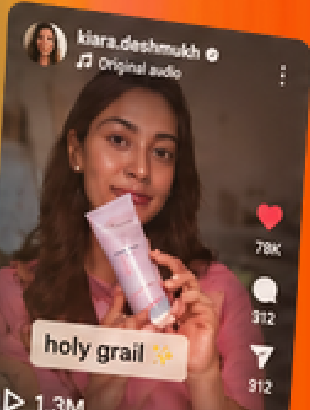
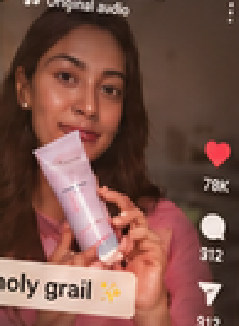
Clean up card art, make waves irregular, fix card cluster overlap
Card images: the source crops (from the LinkedIn banner) each carried
rotation-crop bleed - slivers of background gradient or neighboring cards
visible at the edges. Re-cropped all four tighter (one via de-rotation +
inscribed-rectangle crop, the other three via inset trimming) so every
card is clean, no stray artifacts, matching the reference's polish.

Wave shape: replaced the single-sine-per-layer path with a sum of four
harmonics (same fundamental wavelength, so it still tiles seamlessly) per
layer, each layer seeded differently. Peaks now vary in height and spacing
instead of reading as one mechanical repeat, matching the uneven silhouette
in the reference rather than a clean uniform sine.

Card cluster: tightened the four cards into a closer, more deliberately
aligned row instead of a wide scatter - but that first pass put the left
card and its annotation back inside the copy column, reproducing the
overlap bug from two rounds ago. Fixed by moving the card past the ~53%
copy boundary and reworking its annotation to drop below-right instead of
above-left (added a `vertical` option to the annotation component so labels
aren't locked to sitting above their card).

Claude-Session: https://claude.ai/code/session_018LqBfwsZjUouYefP72CLji

diff --git a/src/components/hero/waveLayers.js b/src/components/hero/waveLayers.js
@@ -1,12 +1,24 @@
-// Builds a seamlessly-tileable repeating sine-wave silhouette as an SVG path.
-// The path covers exactly TWO wavelengths; the layer is then rendered at
-// 200% width and looped by translating -50% of its own box, which lands
-// on an identical frame every cycle (no visible jump).
-function buildTilePath({ wavelength, amplitude, baseline, bandHeight, step = 12 }) {
+// Builds a seamlessly-tileable, deliberately UNEVEN wave silhouette as an
+// SVG path: a few harmonics of the tile's fundamental wavelength summed
+// together (each an integer multiple, so the whole thing still tiles
+// perfectly) so peaks vary in height and spacing instead of reading as one
+// mechanical repeating sine. The layer is rendered at 200% width and
+// looped by translating -50% of its own box, landing on an identical
+// frame every cycle - no visible jump despite the irregular silhouette.
+function buildTilePath({ wavelength, amplitude, baseline, bandHeight, seed = 0, step = 10 }) {
   const width = wavelength * 2
+  const harmonics = [
+    { k: 1, a: 1, phase: seed },
+    { k: 2, a: 0.42, phase: seed * 1.7 + 1.1 },
+    { k: 3, a: 0.22, phase: seed * 0.6 + 2.4 },
+    { k: 5, a: 0.12, phase: seed * 2.3 + 0.5 },
+  ]
   const points = []
   for (let x = 0; x <= width; x += step) {
-    const y = baseline + Math.sin((x / wavelength) * Math.PI * 2) * amplitude
+    let y = baseline
+    for (const h of harmonics) {
+      y += Math.sin((x / wavelength) * Math.PI * 2 * h.k + h.phase) * amplitude * h.a
+    }
     points.push(`${x},${y.toFixed(1)}`)
   }
   return `M ${points.join(' L ')} L ${width},${bandHeight} L 0,${bandHeight} Z`
@@ -19,49 +31,53 @@ const LAYER_DEFS = [
   {
     id: 'l1',
     color: 'var(--color-wave-peach-light)',
-    wavelength: 460,
-    amplitude: 16,
+    wavelength: 540,
+    amplitude: 20,
     baseline: 70,
-    duration: 32,
+    duration: 34,
     bobDuration: 9,
     bobAmount: 4,
     parallax: 6,
+    seed: 0.4,
     opacity: 1,
   },
   {
     id: 'l2',
     color: 'var(--color-wave-peach)',
-    wavelength: 380,
-    amplitude: 24,
-    baseline: 140,
-    duration: 24,
+    wavelength: 440,
+    amplitude: 29,
+    baseline: 145,
+    duration: 25,
     bobDuration: 7.5,
     bobAmount: 5,
     parallax: 9,
+    seed: 2.1,
     opacity: 1,
   },
   {
     id: 'l3',
     color: 'var(--color-wave-orange)',
-    wavelength: 320,
-    amplitude: 30,
-    baseline: 215,
-    duration: 18,
+    wavelength: 370,
+    amplitude: 36,
+    baseline: 220,
+    duration: 19,
     bobDuration: 6.5,
     bobAmount: 6,
     parallax: 13,
+    seed: 3.6,
     opacity: 1,
   },
   {
     id: 'l4',
     color: 'var(--color-wave-orange-deep)',
-    wavelength: 270,
-    amplitude: 38,
-    baseline: 300,
-    duration: 13,
+    wavelength: 310,
+    amplitude: 44,
+    baseline: 305,
+    duration: 14,
     bobDuration: 5.5,
     bobAmount: 7,
     parallax: 18,
+    seed: 5.2,
     opacity: 1,
   },
 ]
@@ -77,6 +93,7 @@ export function getWaveLayers({ mobile = false } = {}) {
       amplitude: layer.amplitude * ampScale,
       baseline: layer.baseline,
       bandHeight: BAND_HEIGHT,
+      seed: layer.seed,
     }),
     viewBoxWidth: layer.wavelength * 2,
     viewBoxHeight: BAND_HEIGHT,

diff --git a/src/components/hero/waveCardsData.js b/src/components/hero/waveCardsData.js
@@ -3,48 +3,32 @@ import card3 from '../../assets/cards/card3_saanvi.png'
 import card4 from '../../assets/cards/card4_tanvi.png'
 import card5 from '../../assets/cards/card5_kiara.png'
 
-// Right-hand cluster, occupying roughly the right half of the hero.
-// depth: 'back' cards render behind the front wave layers; everything
-// else (including the hero card) renders in front of all wave layers -
-// that's the "wave passes behind some cards, in front of others" effect.
+// Right-hand cluster, roughly aligned in one row like the reference (small
+// left, large hero center, small right) - kept well clear of the ~53%-wide
+// copy column so nothing (cards or their annotations) ever crosses it.
 export const WAVE_CARDS = [
   {
     img: card1,
     alt: 'UGC creator - "best thing I\'ve bought this year"',
-    left: 64,
-    top: 71,
+    left: 55,
+    top: 47,
     rotate: -6,
-    scale: 0.58,
-    blur: 0.5,
-    opacity: 0.82,
-    depth: 'back',
-    z: 14,
-    bob: 5.2,
-    annotation: { text: 'Authentic content', side: 'left' },
-  },
-  {
-    img: card4,
-    alt: 'UGC creator - "this is your sign"',
-    left: 60,
-    top: 50,
-    rotate: -10,
-    scale: 0.78,
+    scale: 0.68,
     blur: 0,
-    opacity: 0.96,
-    depth: 'front',
-    z: 26,
-    bob: 4.4,
+    opacity: 0.92,
+    z: 22,
+    bob: 5.2,
+    annotation: { text: 'Authentic content', side: 'right', vertical: 'below' },
   },
   {
     img: card3,
     alt: 'UGC creator - "finally found a matcha that hits", the winning hook',
-    left: 68,
-    top: 30,
+    left: 72,
+    top: 28,
     rotate: -5,
     scale: 1.15,
     blur: 0,
     opacity: 1,
-    depth: 'front',
     z: 40,
     bob: 5,
     hero: true,
@@ -54,12 +38,11 @@ export const WAVE_CARDS = [
     img: card5,
     alt: 'UGC creator - "holy grail" skincare',
     left: 90,
-    top: 20,
+    top: 22,
     rotate: 4,
-    scale: 0.56,
+    scale: 0.58,
     blur: 0,
-    opacity: 0.88,
-    depth: 'front',
+    opacity: 0.9,
     z: 24,
     bob: 6,
     annotation: { text: 'Actual results', side: 'right' },
@@ -78,7 +61,6 @@ export const WAVE_CARDS_MOBILE = [
     scale: 0.6,
     blur: 0,
     opacity: 0.95,
-    depth: 'front',
     z: 24,
     bob: 4.5,
   },
@@ -91,7 +73,6 @@ export const WAVE_CARDS_MOBILE = [
     scale: 0.68,
     blur: 0,
     opacity: 1,
-    depth: 'front',
     z: 26,
     bob: 5,
   },

diff --git a/src/components/hero/WaveCards.jsx b/src/components/hero/WaveCards.jsx
@@ -3,16 +3,12 @@ import gsap from 'gsap'
 import { useReducedMotion } from '../../lib/useReducedMotion'
 import { WAVE_CARDS, WAVE_CARDS_MOBILE } from './waveCardsData'
 
-function AnnotationArrow({ side }) {
+function AnnotationArrow({ side, vertical }) {
+  const transform = [side === 'right' && 'scaleX(-1)', vertical === 'below' && 'scaleY(-1)']
+    .filter(Boolean)
+    .join(' ')
   return (
-    <svg
-      width="46"
-      height="34"
-      viewBox="0 0 46 34"
-      fill="none"
-      className={side === 'right' ? 'scale-x-[-1]' : ''}
-      aria-hidden="true"
-    >
+    <svg width="46" height="34" viewBox="0 0 46 34" fill="none" style={{ transform }} aria-hidden="true">
       <path
         d="M4 4 C 4 20, 16 26, 38 27"
         stroke="var(--color-ink)"
@@ -27,21 +23,26 @@ function AnnotationArrow({ side }) {
 }
 
 function Annotation({ card }) {
-  const isLeft = card.annotation.side === 'left'
+  const { side, vertical = 'above' } = card.annotation
+  const isLeft = side === 'left'
+  const isBelow = vertical === 'below'
   return (
     <div
-      className="pointer-events-none absolute hidden -translate-y-1/2 md:block"
+      className="pointer-events-none absolute hidden md:block"
       style={{
         left: `${card.left + (isLeft ? -15 : 9)}%`,
-        top: `${card.top - 12}%`,
+        top: `${card.top + (isBelow ? 17 : -12)}%`,
         zIndex: card.z + 5,
+        transform: isBelow ? 'none' : 'translateY(-100%)',
       }}
     >
-      <div className={`flex flex-col items-center ${isLeft ? '' : 'items-end'}`}>
+      <div
+        className={`flex flex-col items-center ${isLeft ? '' : 'items-end'} ${isBelow ? 'flex-col-reverse' : ''}`}
+      >
         <span className="font-display -rotate-2 rounded-md bg-cream px-2.5 py-1 text-[11px] font-medium whitespace-nowrap text-ink/70 shadow-[0_2px_10px_rgba(22,17,15,0.08)]">
           {card.annotation.text}
         </span>
-        <AnnotationArrow side={card.annotation.side} />
+        <AnnotationArrow side={side} vertical={vertical} />
       </div>
     </div>
   )
